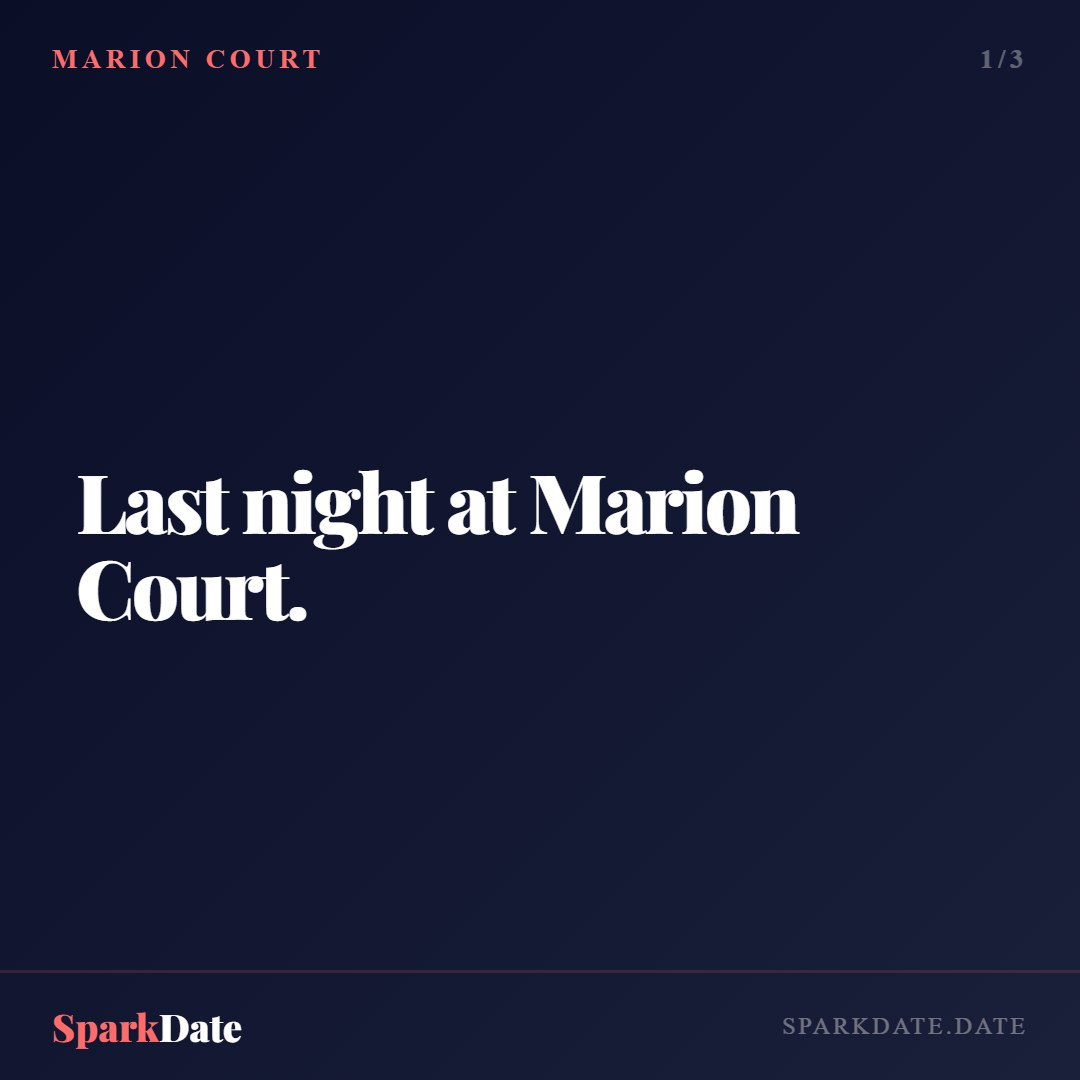
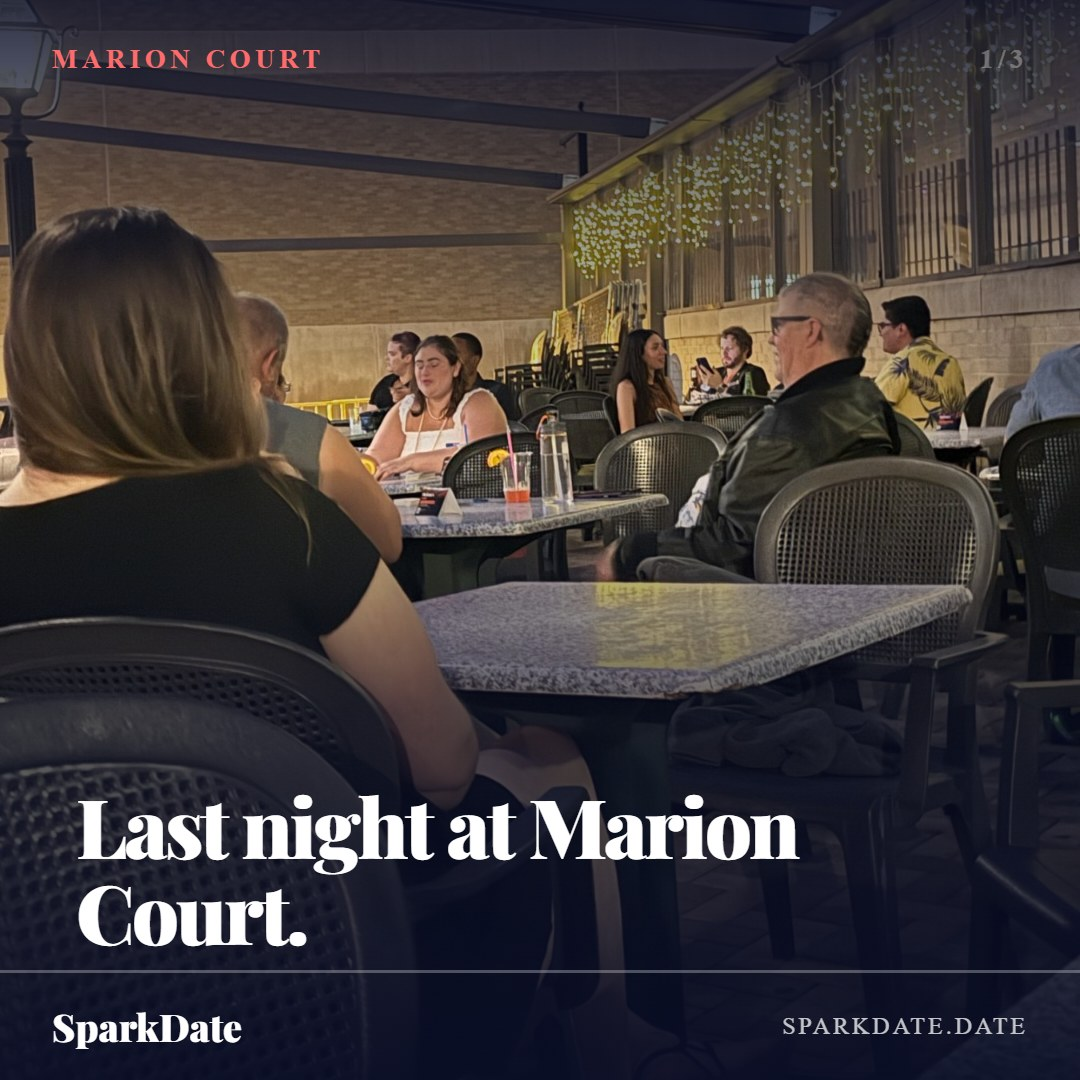
Ship MC-15 tonight and approve the Loxleys run through Sep 22
MC-15 is the Marion Court recap. It never went out on 09-09, and Taylor
re-exported its art at 00:09 tonight; those three PNGs are converted here
and replace the stale 08-22 set (mean pixel difference 42-115, so this is
new art, not a re-encode). The row moves to 2026-09-10 00:30, which puts it
inside Facebook's 10-minute scheduling floor -- the publisher will post it
immediately rather than schedule it.

Its caption carried [REAL NUMBER], the deliberate placeholder for attendance
that is never estimated. Taylor confirmed 29 counted check-ins; that figure
is now in the caption and its provenance is in the row's notes.

Slides 2 and 3 sell the event that already happened -- "Tue, Sep 8 ... $24.99"
and a GET TICKETS button -- while the caption and link point at Loxley's on
Sep 22 at $29.99. They came off the pre-event template. This was put to Taylor
with the option of posting slide 1 alone; he chose to ship all three. Recorded
in the row's notes so it is not re-diagnosed as a bug.

Also approved: LX-16 through LX-25. Their Facebook legs get handed to Meta as
scheduled posts; the Instagram legs fire at their slots via the existing
*/15 social-publish workflow.

Held back deliberately:

  * LX-27, the Loxleys recap, still says [REAL NUMBER] and cannot be filled
    until after the event on 09-22.
  * GG-06, GG-10, MC-11, LX-26 have no artwork; approve's existing guard
    refused them.
  * MC-05 is 12 days past its slot and can never publish.
[…]

diff --git a/tests/content-queue.test.js b/tests/content-queue.test.js
@@ -17,6 +17,7 @@ import { describe, it, expect } from 'vitest';
 import {
   parseCsv, toCsv, rowEvents, rowHashtags, rowAssets,
   allowedHashtags, allowedPrices, currentPrice, pricesInText, isSchedulable, isFeedPost,
+  unfilledPlaceholder,
 } from '../lib/content-queue.js';
 import { lint } from '../scripts/lint-content-queue.js';
 
@@ -335,5 +336,49 @@ describe('structural', () => {
     // A posted row is history. Re-flagging it every run is noise.
     expect(lint([row({ state: 'posted', date: 'whenever', asset_files: '' })], BRAND)
       .filter((f) => f.severity === 'error')).toHaveLength(0);
+  });
+});
+
+// MC-15 was one `approve --through=` away from posting the literal words
+// "[REAL NUMBER] people in a room on a Tuesday" to Facebook and Instagram on
+// 2026-09-10. The figure is left as a placeholder by design -- attendance is
+// never estimated -- and nothing between the copy and the Graph API looked at
+// it: the linter has no rule for it, and planRow only asks whether art exists.
+// `social.js approve` now refuses such a row; this is the predicate it uses.
+describe('unfilled placeholders', () => {
+  it('finds the placeholder in a caption', () => {
+    expect(unfilledPlaceholder({ caption: '[REAL NUMBER] people in a room' }))
+      .toBe('[REAL NUMBER]');
+  });
+
+  it('finds it in caption_x when the caption is clean', () => {
+    expect(unfilledPlaceholder({ caption: 'Thanks, everyone.', caption_x: 'We had [REAL NUMBER].' }))
+      .toBe('[REAL NUMBER]');
+  });
+
+  it('ignores notes -- that is where the instruction to fill it lives', () => {
+    expect(unfilledPlaceholder({
+      caption: '29 people in a room on a Tuesday.',
+      notes: '[REAL NUMBER] = counted check-in figure or CUT THE LINE.',
+    })).toBeNull();
+  });
+
+  it('passes the real MC-15 caption once the figure is in', () => {
+    expect(unfilledPlaceholder({
+      caption: 'Last night at Marion Court.\n\n29 people in a room on a Tuesday, in person.',
+      caption_x: 'Last night at Marion Court. 29 people in a room on a Tuesday, in person.',
+      hashtags: '#LancasterDating #LancasterEvents #SparkDate',
+    })).toBeNull();
+  });
+
+  it('does not fire on ordinary bracketed lowercase or a bare hashtag', () => {
+    // The pattern is deliberately ALL-CAPS-anchored: real copy uses brackets
+    // and every row's hashtags field is full of #Words.
+    expect(unfilledPlaceholder({ caption: 'Loxley\'s [the patio one] is next.' })).toBeNull();
+    expect(unfilledPlaceholder({ hashtags: '#LancasterDating #SparkDate' })).toBeNull();
+  });
+
+  it('handles a row with no text fields at all', () => {
+    expect(unfilledPlaceholder({})).toBeNull();
   });
 });

diff --git a/scripts/social.js b/scripts/social.js
@@ -110,7 +110,21 @@ function cmdApprove(approving) {
   // the copy is written.
   const force = flag('force');
   const blocked = [];
+  const unfilled = [];
 
+  // Recap rows ship with the attendance figure left as `[REAL NUMBER]`,
+  // because the rule is never to estimate it -- so the copy is finished long
+  // before the number exists. Nothing downstream notices: the linter is silent
+  // about it, planRow only asks whether art exists, and the publisher hands
+  // Facebook whatever the caption says. A bulk `approve --through=` over a
+  // month of calendar is therefore one keystroke away from posting the literal
+  // words "[REAL NUMBER] people in a room". Refuse it at the same gate that
+  // already refuses a row with no artwork -- an unfilled placeholder is the
+  // caption's version of missing art.
+  //
+  // This is a gate on APPROVE, not a linter error, on purpose: the linter runs
+  // in the publish workflow, so failing there would stop the whole queue
+  // publishing over one unfilled row weeks out.
   for (const row of rows) {
     if (one && row.row_id !== one) continue;
     if (!one && through && row.date > through) continue;
@@ -119,6 +133,13 @@ function cmdApprove(approving) {
       blocked.push(row.row_id);
       continue;
     }
+    if (approving && !force) {
+      const hit = Q.unfilledPlaceholder(row);
+      if (hit) {
+        unfilled.push(`${row.row_id} (${hit})`);
+        continue;
+      }
+    }
     row.state = to;
     touched.push(row.row_id);
   }
@@ -126,6 +147,12 @@ function cmdApprove(approving) {
   if (blocked.length) {
     console.log(`Skipped ${blocked.length} row(s) with no artwork yet: ${blocked.join(', ')}`);
     console.log('Approve them once the art lands, or pass --force if you mean it.');
+    console.log('');
+  }
+
+  if (unfilled.length) {
+    console.log(`Skipped ${unfilled.length} row(s) with an unfilled placeholder: ${unfilled.join(', ')}`);
+    console.log('Fill in the real figure first -- never estimate it. --force posts the placeholder as written.');
     console.log('');
   }
 

diff --git a/lib/content-queue.js b/lib/content-queue.js
@@ -154,9 +154,24 @@ function isFeedPost(row) {
   return !(rowPlatforms(row).every((p) => p === 'ig_story'));
 }
 
+// The unfilled placeholder in a row's PUBLISHING text, or null.
+//
+// Recap rows are written with the attendance figure left as `[REAL NUMBER]`,
+// because the rule is never to estimate it -- so the copy is finished days
+// before the number exists. `notes` is where the instruction to fill it lives
+// and never publishes, so it is deliberately not examined; caption, caption_x
+// and hashtags all do.
+function unfilledPlaceholder(row) {
+  for (const field of ['caption', 'caption_x', 'hashtags']) {
+    const m = /\[[A-Z][A-Z0-9 _#-]*\]/.exec(String(row[field] || ''));
+    if (m) return m[0];
+  }
+  return null;
+}
+
 module.exports = {
   parseCsv, toCsv,
   rowEvents, rowPlatforms, rowAssets, rowHashtags,
   allowedHashtags, allowedPrices, currentPrice, pricesInText,
-  isSchedulable, isFeedPost,
+  isSchedulable, isFeedPost, unfilledPlaceholder,
 };

diff --git a/HANDOFF.md b/HANDOFF.md
@@ -82,6 +82,28 @@ in `reports/`.** If an entry here stops being "in flight," move it or delete it.
   hand.** AllEvents needs no submission — it auto-imports from Eventbrite — but
   its imported body and link both need the manual fix afterwards.
 
+- **LX-24's Facebook leg cannot publish and will fail silently on 09-21 — it
+  needs a 1080x1080 export.** (09-10) Approved with the rest of the Loxleys run,
+  but `plan` already skips `LX-24/fb` with "every asset is story-shaped". Its
+  four files are two `_tt` and two `_story` frames; there is no feed-shaped one,
+  so `lib/social-publish.js`'s guard refuses it every run. **This is MC-12's
+  failure exactly**, and that one was only fixed because Taylor exported a square
+  by hand. The Instagram Story half is fine and will go. **Next step: a 1080x1080
+  `LX-24` export into `SourceArt` before 2026-09-21 18:30, then
+  `python scripts/prep-social-assets.py`** — or decide LX-24 is Story-only and
+  drop `fb` from its platforms so it stops reading as a scheduled post that never
+  happened.
+
+- **LX-27 is deliberately still `pending` — it is the Loxleys recap and its
+  caption still says `[REAL NUMBER]`.** (09-10) It cannot be approved until the
+  counted check-in figure exists, which is after the event on 09-22. `social.js
+  approve` now refuses it by itself rather than relying on someone noticing (see
+  the guard added in this PR), so a bulk `approve --through=` cannot post the
+  literal words. **Next step: after Loxleys on 2026-09-22, put the counted
+  check-in number into LX-27's `caption` and `caption_x`, then
+  `node scripts/social.js approve --row=LX-27`.** This is the same trap MC-15 was
+  one keystroke from on 09-10.
+
 - **MC-12's Instagram Story and MC-13's Instagram feed post are queued correctly
   but need `social.js run --execute` run again at their actual moments — nothing
   currently does that automatically.** (09-07, PR #471) Both are `state=approved`
